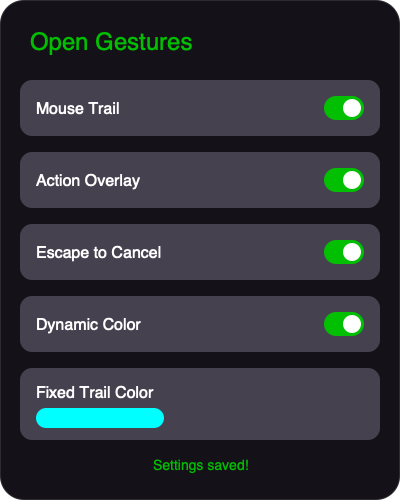
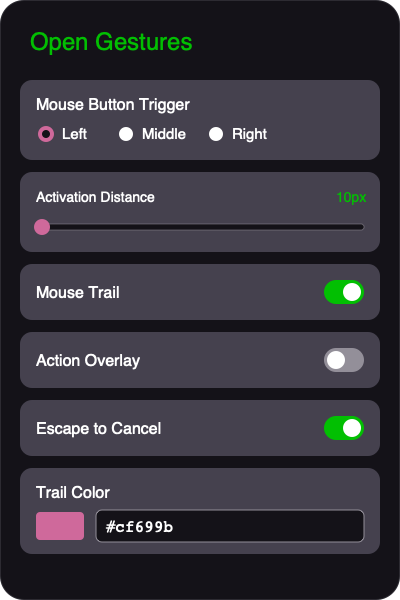
⛵

diff --git a/README.md b/README.md
@@ -34,8 +34,9 @@ Customize your experience via the extension's options popup.
   <img src="assets/options-infographic.svg" width="300" alt="Options Popup Infographic">
 </p>
 
-- **Mouse Trail:** Toggle the visibility of the line drawn while gesturing.
 - **Mouse Button Trigger:** Choose which mouse button (Left, Middle, Right) activates gestures.
+- **Activation Distance:** Set the distance (in pixels) the mouse must move before a gesture activates.
+- **Mouse Trail:** Toggle the visibility of the line drawn while gesturing.
 - **Action Overlay:** Show or hide the action name (e.g., "Back") next to your cursor.
 - **Escape to Cancel:** When enabled, pressing the `Esc` key will void the current gesture.
 - **Trail Color:** Choose a specific color for your gesture trail.